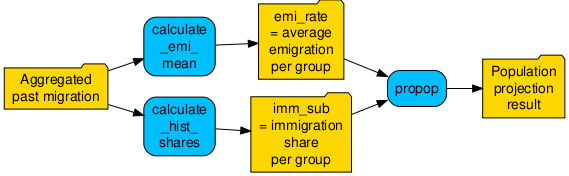
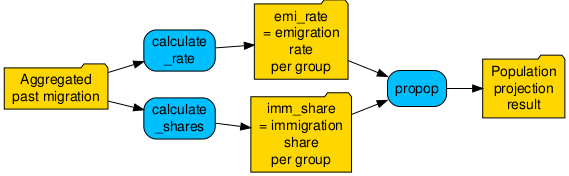
renamed function to calculate_rate() for consistency

diff --git a/tests/testthat/_snaps/calculate_emi_rate.md b/tests/testthat/_snaps/calculate_emi_rate.md
@@ -1,4 +1,4 @@
-# calculate_emi_rate snapshot - mean, age_group=5, binational, two_sex
+# calculate_rate snapshot - mean, age_group=5, binational, two_sex
 
     Code
       print(tail(result, 100))
@@ -19,7 +19,7 @@
       # i 90 more rows
       # i 2 more variables: emi_rate <dbl>, method <chr>
 
-# calculate_emi_rate snapshot - median, age_group=7, 2023 & 2025, one sex
+# calculate_rate snapshot - median, age_group=7, 2023 & 2025, one sex
 
     Code
       print(tail(result2, 100))

diff --git a/NEWS.md b/NEWS.md
@@ -2,7 +2,7 @@
 - `propop::propop()` offers a new method for subregional migration. The new method
 uses **migration rates** rather than **net migration** (number of people). 
 - To make using the rate method easier, there are two new functions -- 
-`calculate_emi_rate()` and `calculate_shares()`.
+`calculate_rate()` and `calculate_shares()`.
 
 # propop 2.0.0
 ## Breaking changes
